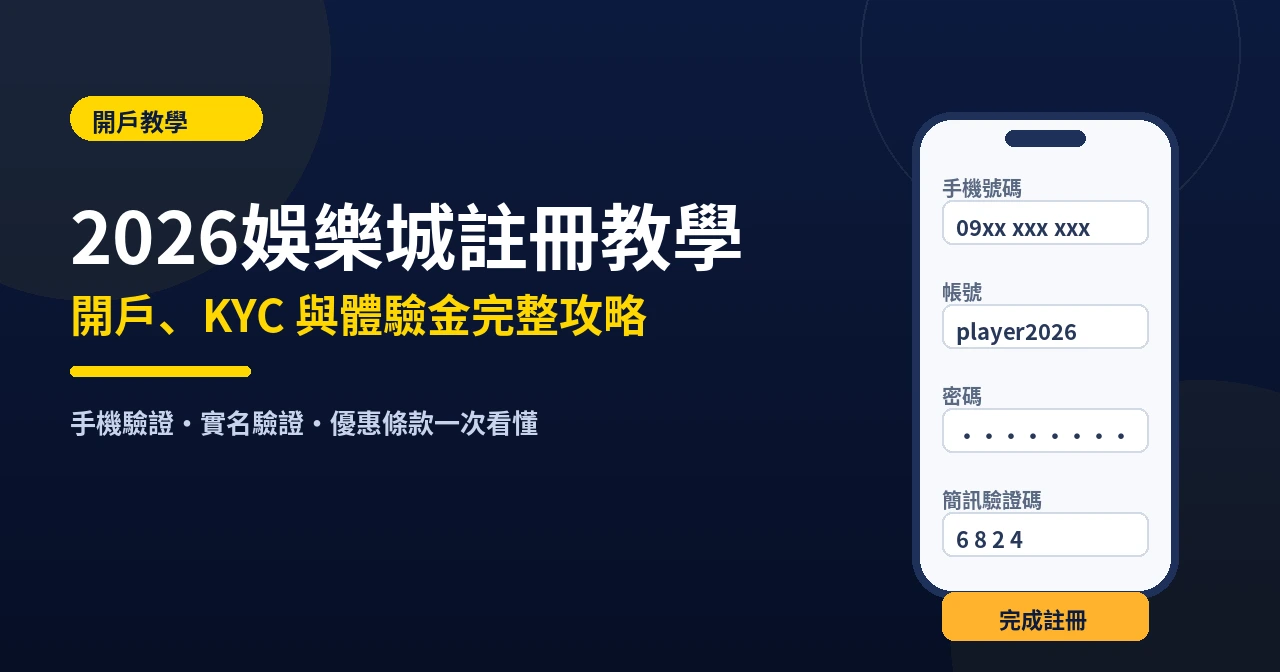
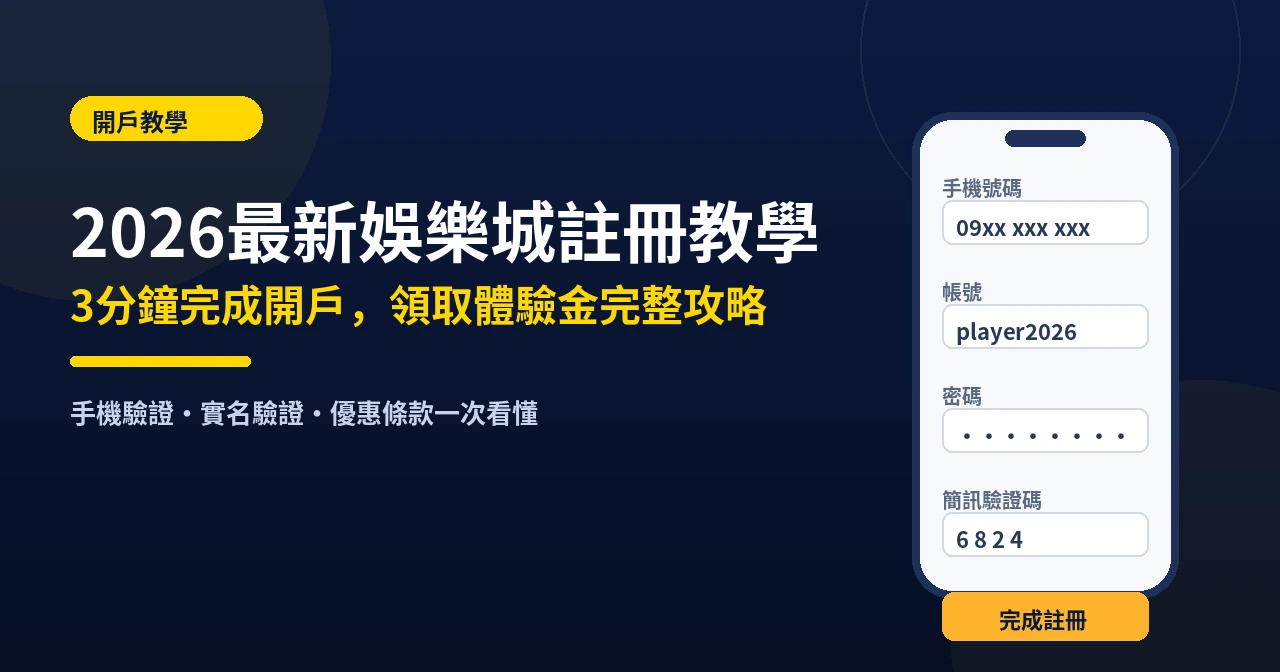
P26: title lock per user V2 - H1/title/og:title/twitter:title/Article headline reverted to ORIGINAL '2026最新娛樂城註冊教學｜3分鐘完成開戶，領取體驗金完整攻略' (3分鐘 kept in title per user decision; body still contains no generalized 3-minute claim); cover regenerated with locked title text (same asset path, verified 1280x672

Changed region(s): [[0.0312, 0.2812, 0.6562, 0.5625], [0.0312, 0.5938, 0.4375, 0.6562]]

diff --git a/articles/casino-registration-guide.html b/articles/casino-registration-guide.html
@@ -9,7 +9,7 @@
     <link rel="icon" type="image/png" sizes="32x32" href="/static/images/favicon/favicon-32x32.png">
     <link rel="apple-touch-icon" sizes="180x180" href="/static/images/favicon/apple-touch-icon.png">
     <link rel="manifest" href="/manifest.json">
-    <title>2026娛樂城註冊教學｜開戶、KYC 與體驗金完整攻略 - 娛樂城玩家俱樂部</title>
+    <title>2026最新娛樂城註冊教學｜3分鐘完成開戶，領取體驗金完整攻略 - 娛樂城玩家俱樂部</title>
     <meta name="description" content="整理2026娛樂城註冊流程、手機驗證、KYC與體驗金注意事項，並以鉅城、HG樂遊及3A官網公開規則說明註冊前後要確認的資料與風險。">
     <link rel="canonical" href="https://fun1399.com/articles/casino-registration-guide">
     <!-- Schema.org Article 標記 -->
@@ -17,7 +17,7 @@
     {
       "@context": "https://schema.org",
       "@type": "Article",
-      "headline": "2026娛樂城註冊教學｜開戶、KYC 與體驗金完整攻略",
+      "headline": "2026最新娛樂城註冊教學｜3分鐘完成開戶，領取體驗金完整攻略",
       "description": "整理2026娛樂城註冊流程、手機驗證、KYC與體驗金注意事項，並以鉅城、HG樂遊及3A官網公開規則說明註冊前後要確認的資料與風險。",
       "author": {
         "@type": "Person",
@@ -71,7 +71,7 @@
       gtag('js', new Date());
       gtag('config', 'G-1V53J5D71S');
     </script>
-    <meta property="og:title" content="2026娛樂城註冊教學｜開戶、KYC 與體驗金完整攻略 - 娛樂城玩家俱樂部">
+    <meta property="og:title" content="2026最新娛樂城註冊教學｜3分鐘完成開戶，領取體驗金完整攻略 - 娛樂城玩家俱樂部">
     <meta property="og:description" content="整理2026娛樂城註冊流程、手機驗證、KYC與體驗金注意事項，並以鉅城、HG樂遊及3A官網公開規則說明註冊前後要確認的資料與風險。">
     <meta property="og:type" content="article">
     <meta property="og:url" content="https://fun1399.com/articles/casino-registration-guide">
@@ -80,7 +80,7 @@
     <meta property="og:image:height" content="672">
     <meta property="og:site_name" content="娛樂城玩家俱樂部">
     <meta name="twitter:card" content="summary_large_image">
-    <meta name="twitter:title" content="2026娛樂城註冊教學｜開戶、KYC 與體驗金完整攻略 - 娛樂城玩家俱樂部">
+    <meta name="twitter:title" content="2026最新娛樂城註冊教學｜3分鐘完成開戶，領取體驗金完整攻略 - 娛樂城玩家俱樂部">
     <meta name="twitter:description" content="整理2026娛樂城註冊流程、手機驗證、KYC與體驗金注意事項，並以鉅城、HG樂遊及3A官網公開規則說明註冊前後要確認的資料與風險。">
     <meta name="twitter:image" content="https://fun1399.com/static/images/articles/articles/casino-registration-guide-cover-1280x672.webp">
     <!-- FAQ Schema -->
@@ -193,7 +193,7 @@
                 <span>娛樂城註冊教學</span>
             </nav>
 
-            <h1>2026娛樂城註冊教學｜開戶、KYC 與體驗金完整攻略</h1>
+            <h1>2026最新娛樂城註冊教學｜3分鐘完成開戶，領取體驗金完整攻略</h1>
 
             <div class="article-hero-image" style="position: relative; width: 100%; aspect-ratio: 1280 / 672; overflow: hidden; border-radius: 10px; margin: 20px 0;">
                 <img src="/static/images/articles/articles/casino-registration-guide-cover-1280x672.webp"
